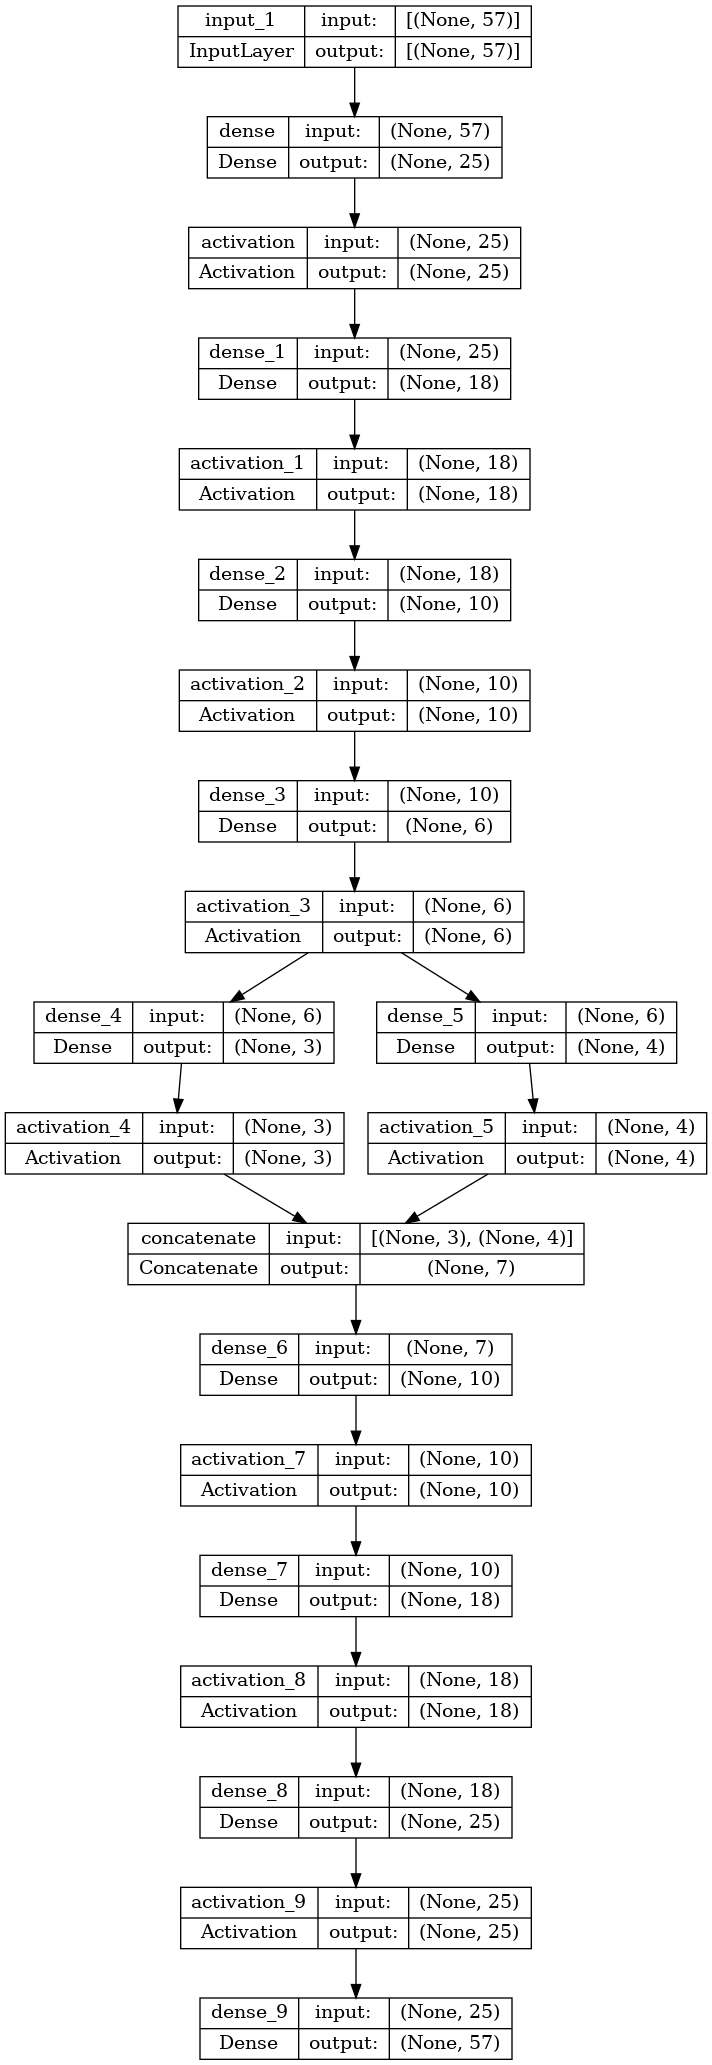
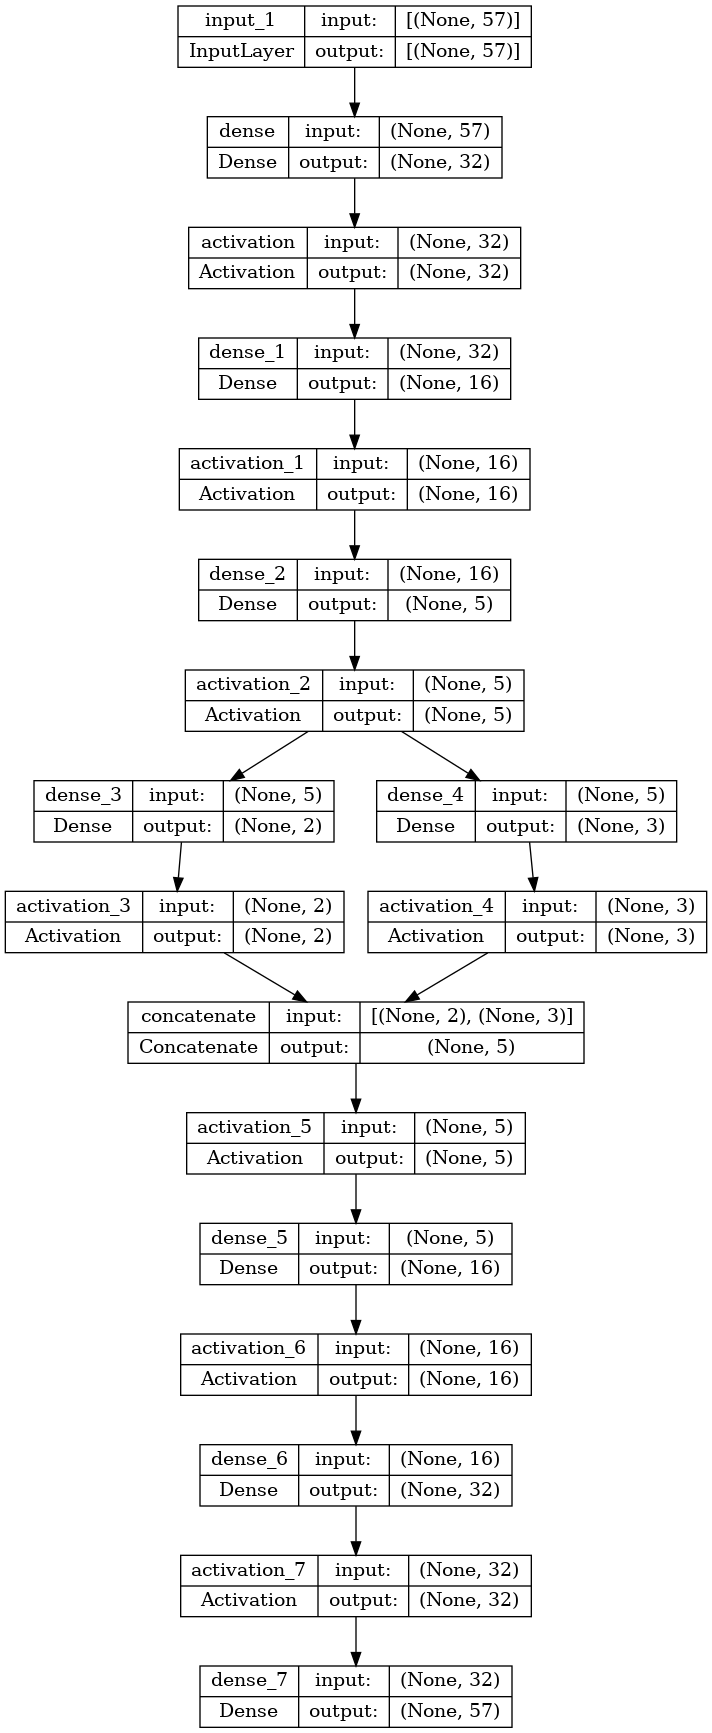
add files

Changed region(s): [[0.0, 0.0, 1.0, 1.0]]

diff --git a/training/Dense-voting_2.py b/training/Dense-voting_2.py
@@ -1,0 +1,289 @@
+#!/usr/bin/env python
+
+
+from __future__ import annotations
+
+import h5py
+import matplotlib.pyplot as plt
+import numpy as np
+import tensorflow as tf
+import tensorflow.keras as keras
+from keras.utils.vis_utils import plot_model
+from sklearn.metrics import auc, roc_curve
+from tensorflow.keras import backend as K
+from tensorflow.keras.initializers import GlorotUniform
+
+# from tensorflow.keras.layers import   # LeakyReLU,; ReLU,
+from tensorflow.keras.layers import (
+    Activation,
+    BatchNormalization,
+    Concatenate,
+    Dense,
+    Input,
+    Layer,
+)
+from tensorflow.keras.models import Model
+
+# In[2]:
+gpus = tf.config.experimental.list_physical_devices("GPU")
+if gpus:
+    try:
+        tf.config.experimental.set_virtual_device_configuration(
+            gpus[0],
+            [tf.config.experimental.VirtualDeviceConfiguration(memory_limit=3072)],
+        )
+    except RuntimeError as e:
+        print(e)
+
+
+# In[2]:
+
+
+folder = "../processed-dataset/"
+filename = "BKG_dataset.h5"
+
+
+# In[3]:
+
+
+with h5py.File(folder + filename, "r") as file:
+    X_train = np.array(file["X_train"])
+    X_test = np.array(file["X_test"])
+    X_val = np.array(file["X_val"])
+
+
+# In[8]:
+
+
+input_shape = 57
+latent_dimension = 5
+num_nodes = [32, 16, 9]  # [25,15]#
+EPOCHS = 20
+BATCH_SIZE = 1024
+activation = "LeakyReLU"  # LeakyReLU
+
+
+# In[16]:
+
+
+initializer = tf.keras.initializers.GlorotUniform()
+inputArray = Input(shape=(input_shape))
+x = Dense(num_nodes[0], use_bias=False, kernel_initializer=initializer)(inputArray)
+x = Activation(activation)(x)
+x = Dense(num_nodes[1], use_bias=False, kernel_initializer=initializer)(x)
+x = Activation(activation)(x)
+#x = Dense(num_nodes[2], use_bias=False, kernel_initializer=initializer)(x)
+#x = Activation(activation)(x)
+x = Dense(latent_dimension, use_bias=False, kernel_initializer=initializer)(x)
+x = Activation(activation)(x)
+encoder_1 = Dense(latent_dimension - 3, use_bias=False, kernel_initializer=initializer)(
+    x
+)
+encoder_act1 = Activation("ReLU")(encoder_1)
+encoder_2 = Dense(latent_dimension - 2, use_bias=False, kernel_initializer=initializer)(
+    x
+)
+encoder_act2 = Activation("ReLU")(encoder_2)
+
+
+# decoder
+merged = Concatenate()([encoder_act1, encoder_act2])
+x = Activation("softmax")(merged)
+#x = Dense(num_nodes[2], use_bias=False, kernel_initializer=initializer)(merged)
+#x = Activation(activation)(x)
+x = Dense(num_nodes[1], use_bias=False, kernel_initializer=initializer)(x)
+x = Activation(activation)(x)
+x = Dense(num_nodes[0], use_bias=False, kernel_initializer=initializer)(x)
+x = Activation(activation)(x)
+decoder = Dense(input_shape)(x)
+
+# create autoencoder
+autoencoder = Model(inputs=inputArray, outputs=decoder)
+autoencoder.summary()
+
+plot_model(
+    autoencoder, to_file="model_plot.png", show_shapes=True, show_layer_names=True
+)
+
+# In[17]:
+
+
+autoencoder.compile(
+    optimizer=keras.optimizers.Adam(learning_rate=0.005),
+    loss="mse",
+    metrics=["ACC"],  # , "AUC"]
+)  # ,metrics=['AUC','ACC','MSE']) #loss= "mse", mae, msle MeanSquaredLogarithmicError mean_squared_logarithmic_error
+
+
+# In[18]:
+
+
+callbacks = tf.keras.callbacks.EarlyStopping(
+    monitor="val_ACC",
+    min_delta=0.002,
+    patience=10,
+    verbose=1,
+    mode="max",
+    baseline=None,
+    restore_best_weights=True,
+)
+
+history = autoencoder.fit(
+    X_train,
+    X_train,
+    epochs=EPOCHS,
+    batch_size=BATCH_SIZE,
+    validation_data=(X_val, X_val),
+    #callbacks=callbacks,
+    verbose=1,
+)
+
+
+# In[19]:
+
+
+# model_name = "model_name"
+# model_directory = ""
+# save_model(model_directory + model_name, autoencoder)
+
+# ## Prediction - background
+
+bkg_prediction = autoencoder.predict(X_test)
+
+# add correct signal labels
+signal_labels = ["Ato4l", "hChToTauNu", "hToTauTau", "leptoquark"]
+
+# add correct path to signal files
+signals_file = [
+    "Ato4l_lepFilter_13TeV_dataset.h5",
+    "hChToTauNu_13TeV_PU20_dataset.h5",
+    "hToTauTau_13TeV_PU20_dataset.h5",
+    "leptoquark_LOWMASS_lepFilter_13TeV_dataset.h5",
+]
+
+
+# In[ ]:
+
+
+signal_data = []
+for i, label in enumerate(signal_labels):
+    with h5py.File(folder + signals_file[i], "r") as file:
+        test_data = np.array(file["Data"])
+    signal_data.append(test_data)
+    # signal_data = scaler.transform(signal_data)
+
+
+# In[ ]:
+
+
+signal_results = []
+
+for i, label in enumerate(signal_labels):
+    signal_prediction = autoencoder.predict(signal_data[i])
+    signal_results.append(
+        [label, signal_data[i], signal_prediction]
+    )  # save [label, true, prediction] for signal
+
+
+# In[ ]:
+
+
+def mse_loss(true, prediction):
+    # loss = tf.reduce_mean(tf.math.abs(1-tf.math.log(true - prediction)), axis=-1)
+    loss = tf.reduce_mean(tf.math.square(true - prediction), axis=-1)
+    # loss = - tf.reduce_mean(tf.math.log(1-(tf.math.square(true - prediction))),axis=-1)
+    return loss
+
+
+# In[ ]:
+
+
+# compute loss value (true, predicted)
+total_loss = []
+total_loss.append(mse_loss(X_test, bkg_prediction.astype(np.float32)).numpy())
+for i, signal_X in enumerate(signal_data):
+    total_loss.append(
+        mse_loss(signal_X, signal_results[i][2].astype(np.float32)).numpy()
+    )
+print(total_loss)
+bin_size = 100
+
+
+plt.figure(figsize=(10, 8))
+for i, label in enumerate(signal_labels):
+    plt.hist(
+        total_loss[i],
+        bins=bin_size,
+        label=label,
+        density=True,
+        histtype="step",
+        fill=False,
+        linewidth=1.5,
+    )
+plt.yscale("log")
+plt.xlabel("Autoencoder Loss")
+plt.ylabel("Probability (a.u.)")
+plt.title("MSE loss")
+plt.legend(loc="best")
+plt.show()
+
+
+labels = np.concatenate([["Background"], np.array(signal_labels)])
+
+
+"""
+plt.plot(autoencoder.history.history["loss"], label="Training loss")
+plt.plot(autoencoder.history.history["val_loss"], label="Validation loss")
+plt.legend()
+plt.show()
+
+plt.plot(autoencoder.history.history["ACC"], label="Training accuracy")
+plt.plot(autoencoder.history.history["val_ACC"], label="Validation accuracy")
+plt.legend()
+plt.show()
+
+"""
+
+target_background = np.zeros(total_loss[0].shape[0])
+
+plt.figure(figsize=(10, 8))
+for i, label in enumerate(labels):
+    if i == 0:
+        continue  # background events
+
+    trueVal = np.concatenate(
+        (np.ones(total_loss[i].shape[0]), target_background)
+    )  # anomaly=1, bkg=0
+    predVal_loss = np.concatenate((total_loss[i], total_loss[0]))
+
+    fpr_loss, tpr_loss, threshold_loss = roc_curve(trueVal, predVal_loss)
+    for j in range(len(fpr_loss)):
+        if fpr_loss[j] == 0.00001:
+            print(label, tpr_loss[j])
+
+    auc_loss = auc(fpr_loss, tpr_loss)
+
+    plt.plot(
+        fpr_loss,
+        tpr_loss,
+        "-",
+        label=f"{label} (auc = {auc_loss * 100.0:.1f}%)",
+        linewidth=1.5,
+    )
+
+    plt.semilogx()
+    plt.semilogy()
+    plt.ylabel("True Positive Rate")
+    plt.xlabel("False Positive Rate")
+    plt.legend(loc="center right")
+    plt.grid(True)
+    plt.tight_layout()
+plt.plot(np.linspace(0, 1), np.linspace(0, 1), "--", color="0.75")
+plt.axvline(
+    0.00001, color="red", linestyle="dashed", linewidth=1
+)  # threshold value for measuring anomaly detection efficiency
+plt.title("ROC AE")
+plt.show()
+
+
+# ##
